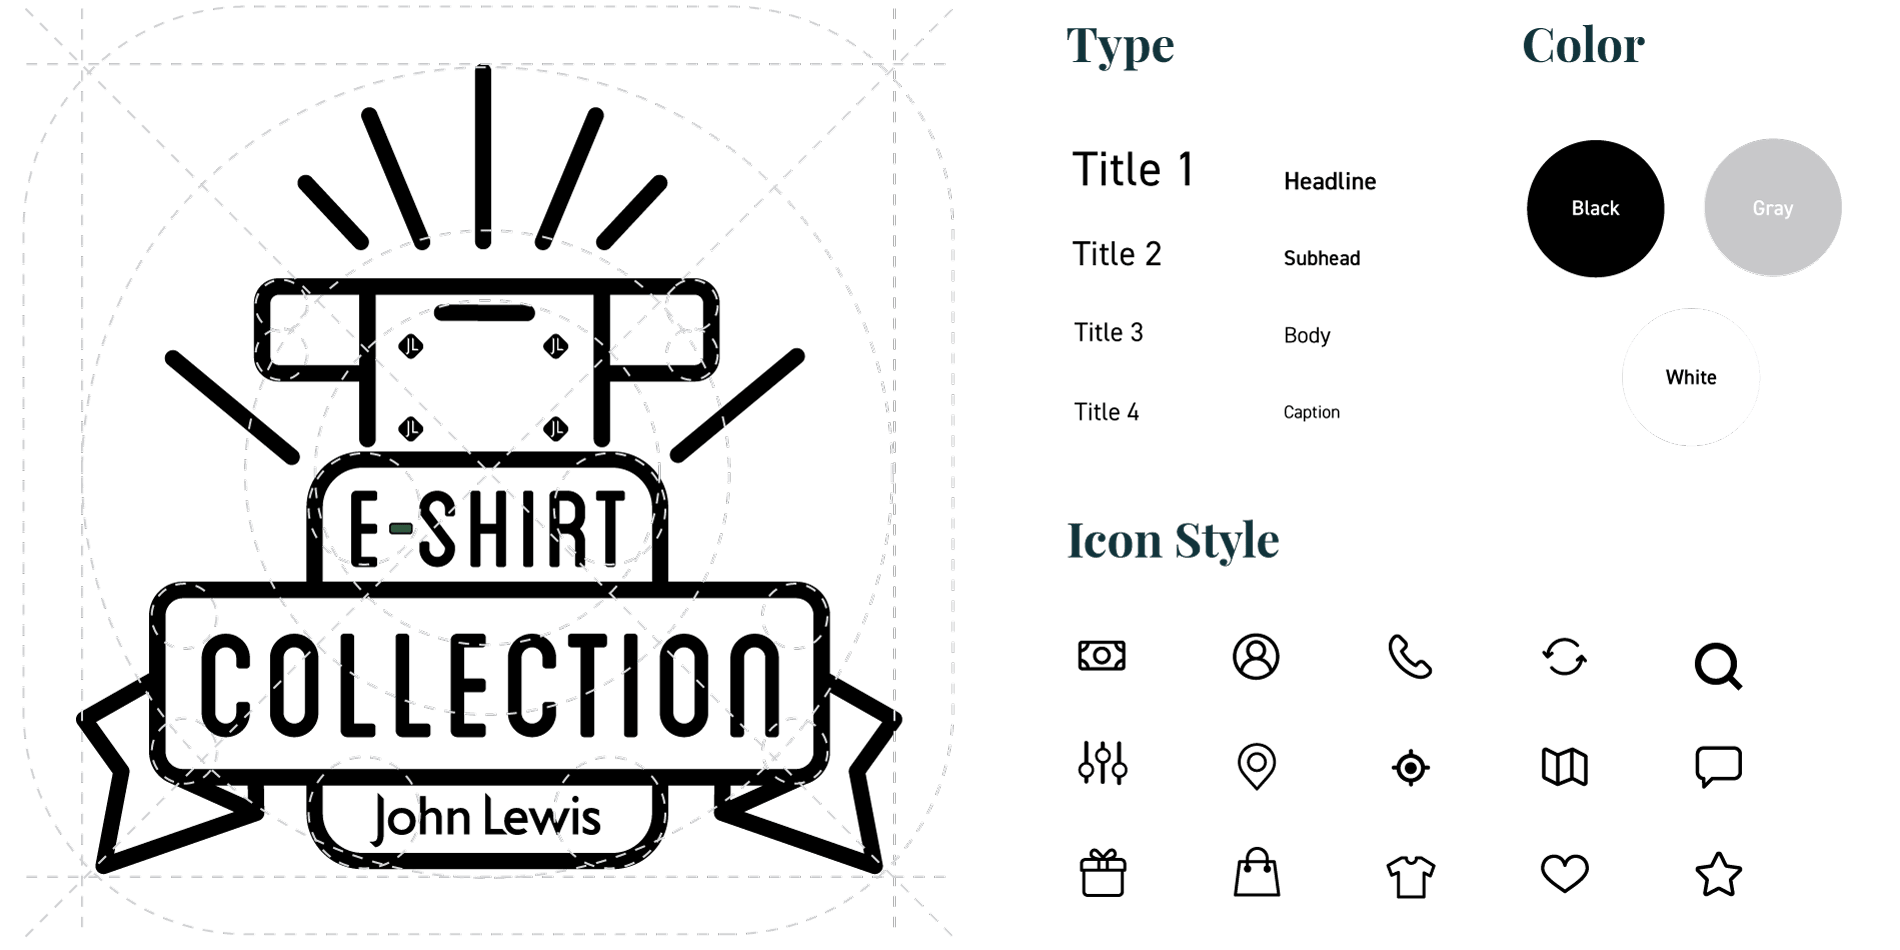
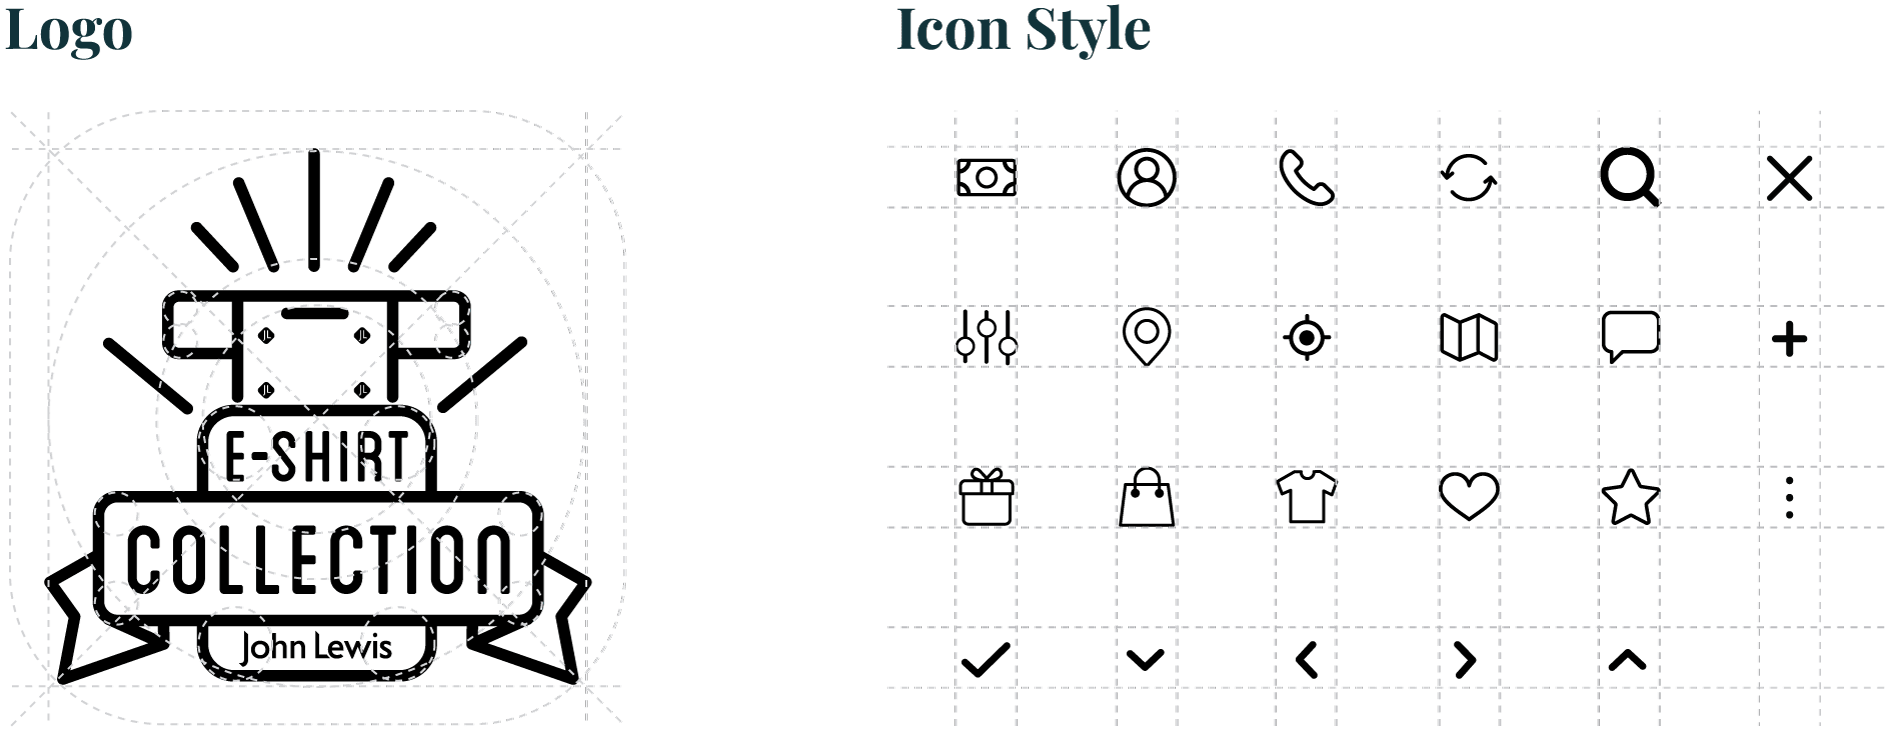
new images JL

diff --git a/works-jl-tshirt.html b/works-jl-tshirt.html
@@ -73,13 +73,29 @@
 
                     <p>To support the idea we developed the <b>logo</b>, a <b>prototype for the app</b>, <b>two posters</b> and a <b>video explaining the concept</b>.</p>
 
-                    <img src="images/cases/jl/design_concept1.png" alt="Logo and app elements" class="images banner">
+                    <img src="images/cases/jl/design_concept1.png" alt="Logo and icons" class="images banner">
                     <br>
                     <br>
                     <br>
-                    <img src="images/cases/jl/design_concept2.png" alt="App content" class="images banner">
+                    <img src="images/cases/jl/design_concept2.png" alt="App content" class="Typography, titles and colours">
+                    <br>
+                    <br>
+                    <br>
+                    <img src="images/cases/jl/design_concept3.png" alt="App content" class="Content components">
                     
+                    <br>
+                    <br>
 
+                    <h3>App Screens Design</h3>
+                    <hr>
+                    <img src="images/cases/jl/design_concept4.png" alt="Wireframe" class="images banner">
+                    <br>
+                    <br>
+                    <br>
+                    <img src="images/cases/jl/design_concept5.png" alt="App screens" class="images banner">
+                    <br>
+                    <br>
+                    <br>
                 </div>
 
                 <div class="workabout">

diff --git a/css/style.scss b/css/style.scss
@@ -600,7 +600,7 @@ footer {
 }
 
 .jl {
-    background-color: #c8c8ca;
+    background-color: #dcddde;
     
     & .jl-man {
         height: 100%;
@@ -617,7 +617,7 @@ footer {
 }
 
 .calligraphy {
-    background-color: #e3ddcc;
+    background-color: #dde5ec;
     
     & .type {
         height: 100%;

diff --git a/css/style.css b/css/style.css
@@ -580,7 +580,7 @@ footer {
 }
 
 .jl {
-  background-color: #c8c8ca;
+  background-color: #dcddde;
 }
 
 .jl .jl-man {
@@ -597,7 +597,7 @@ footer {
 }
 
 .calligraphy {
-  background-color: #e3ddcc;
+  background-color: #dde5ec;
 }
 
 .calligraphy .type {
